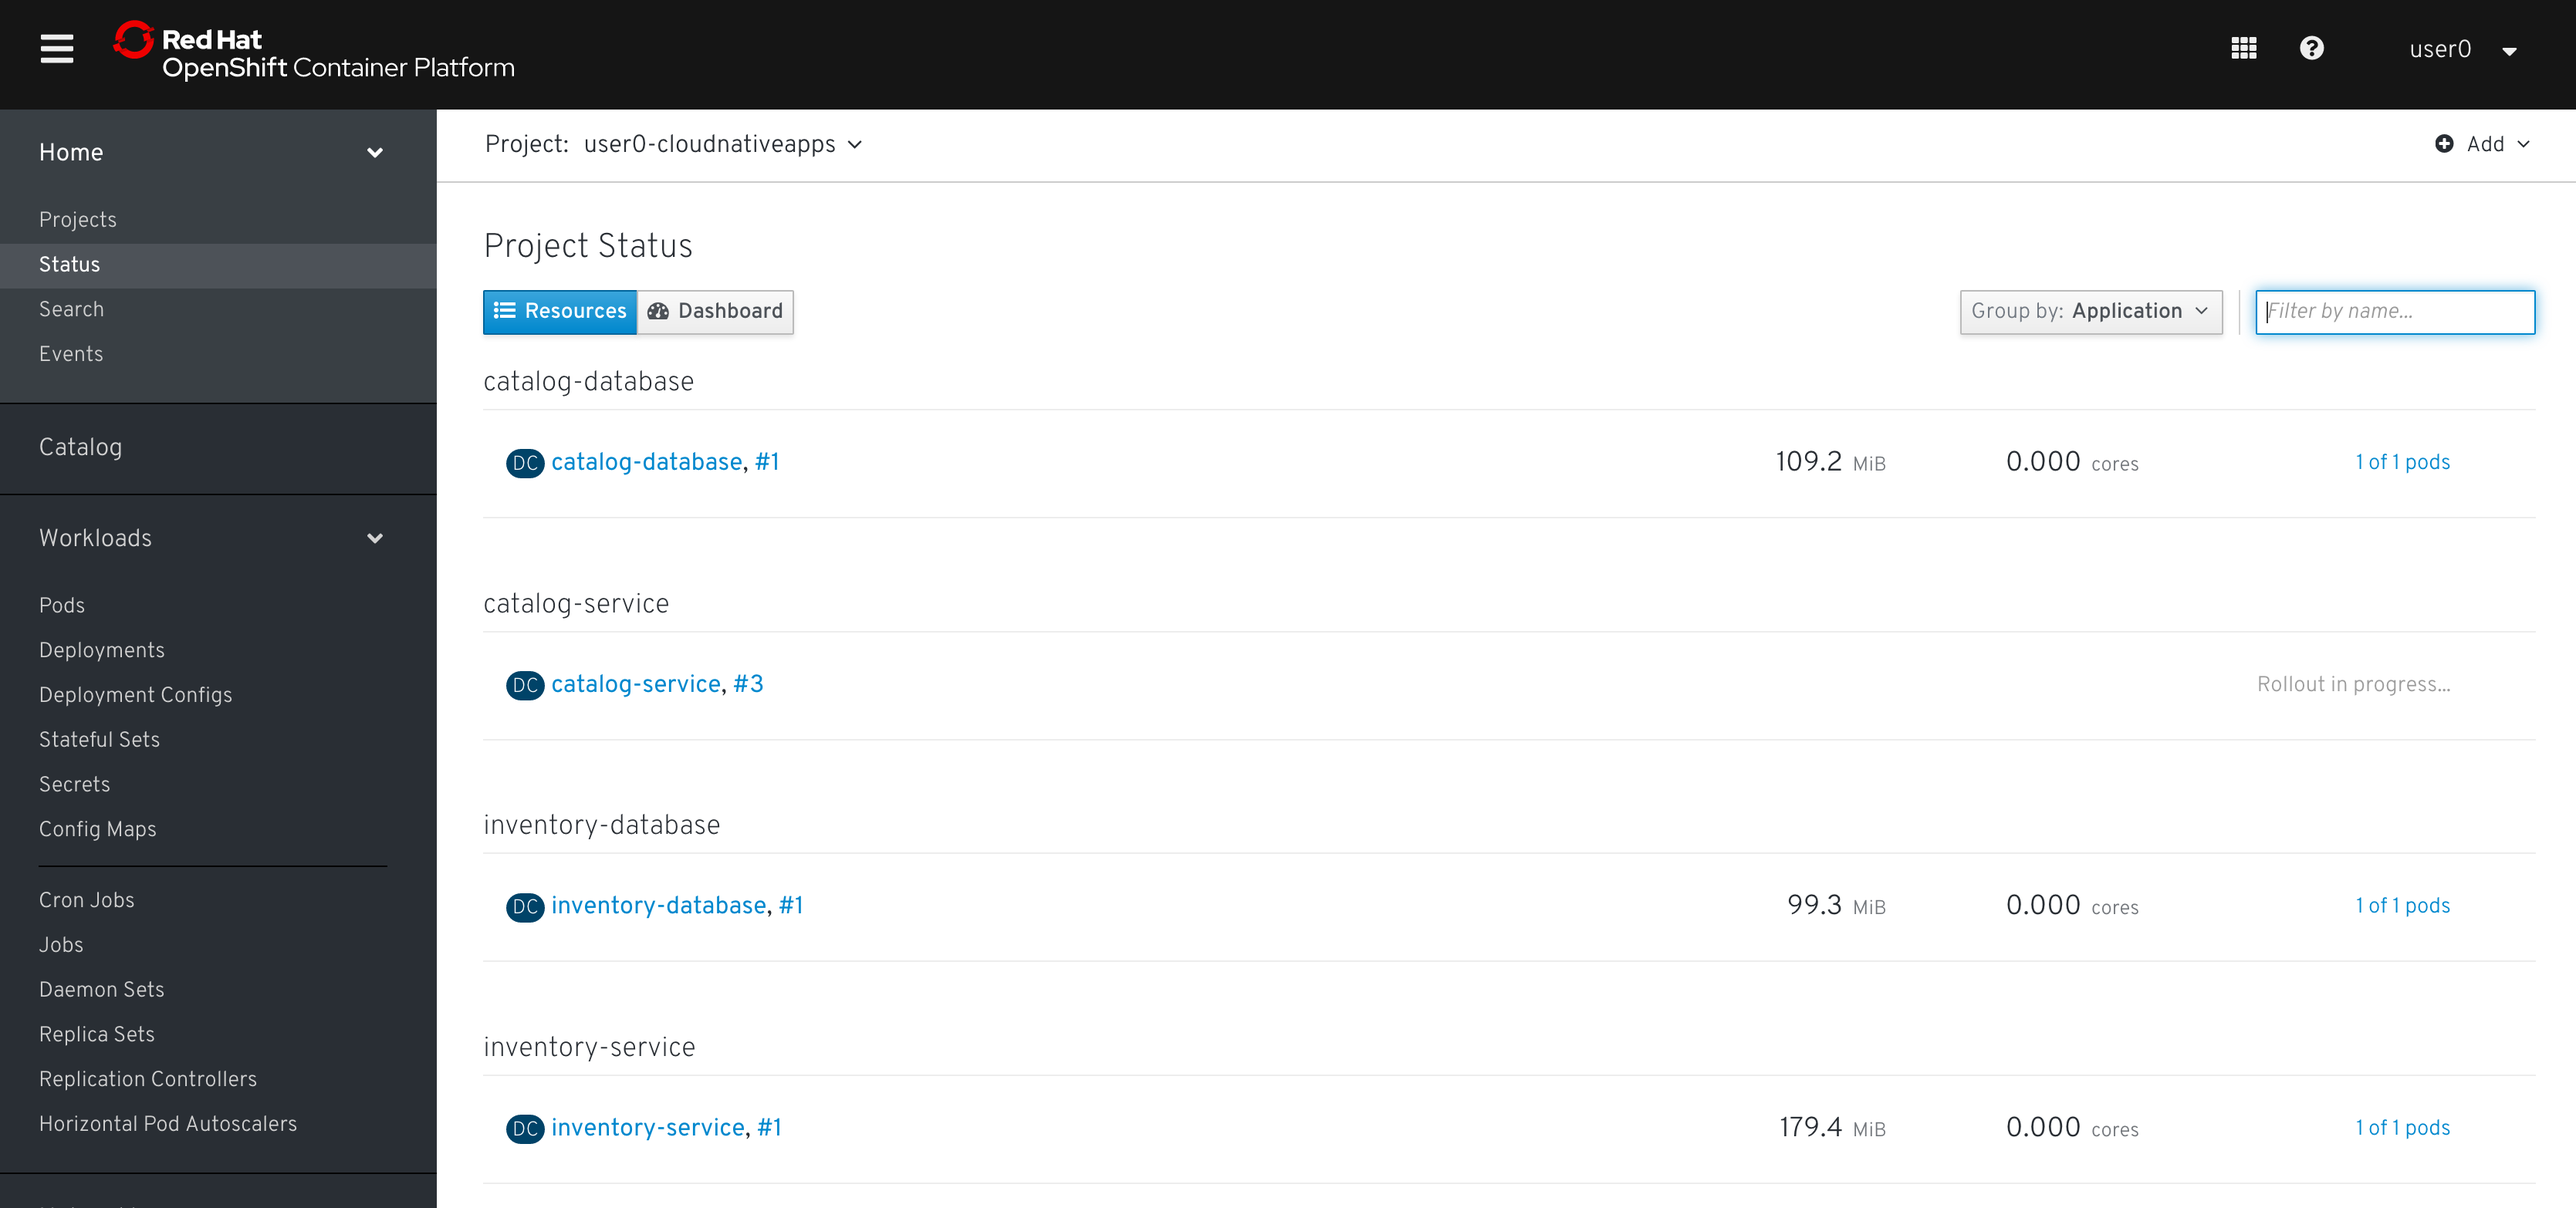
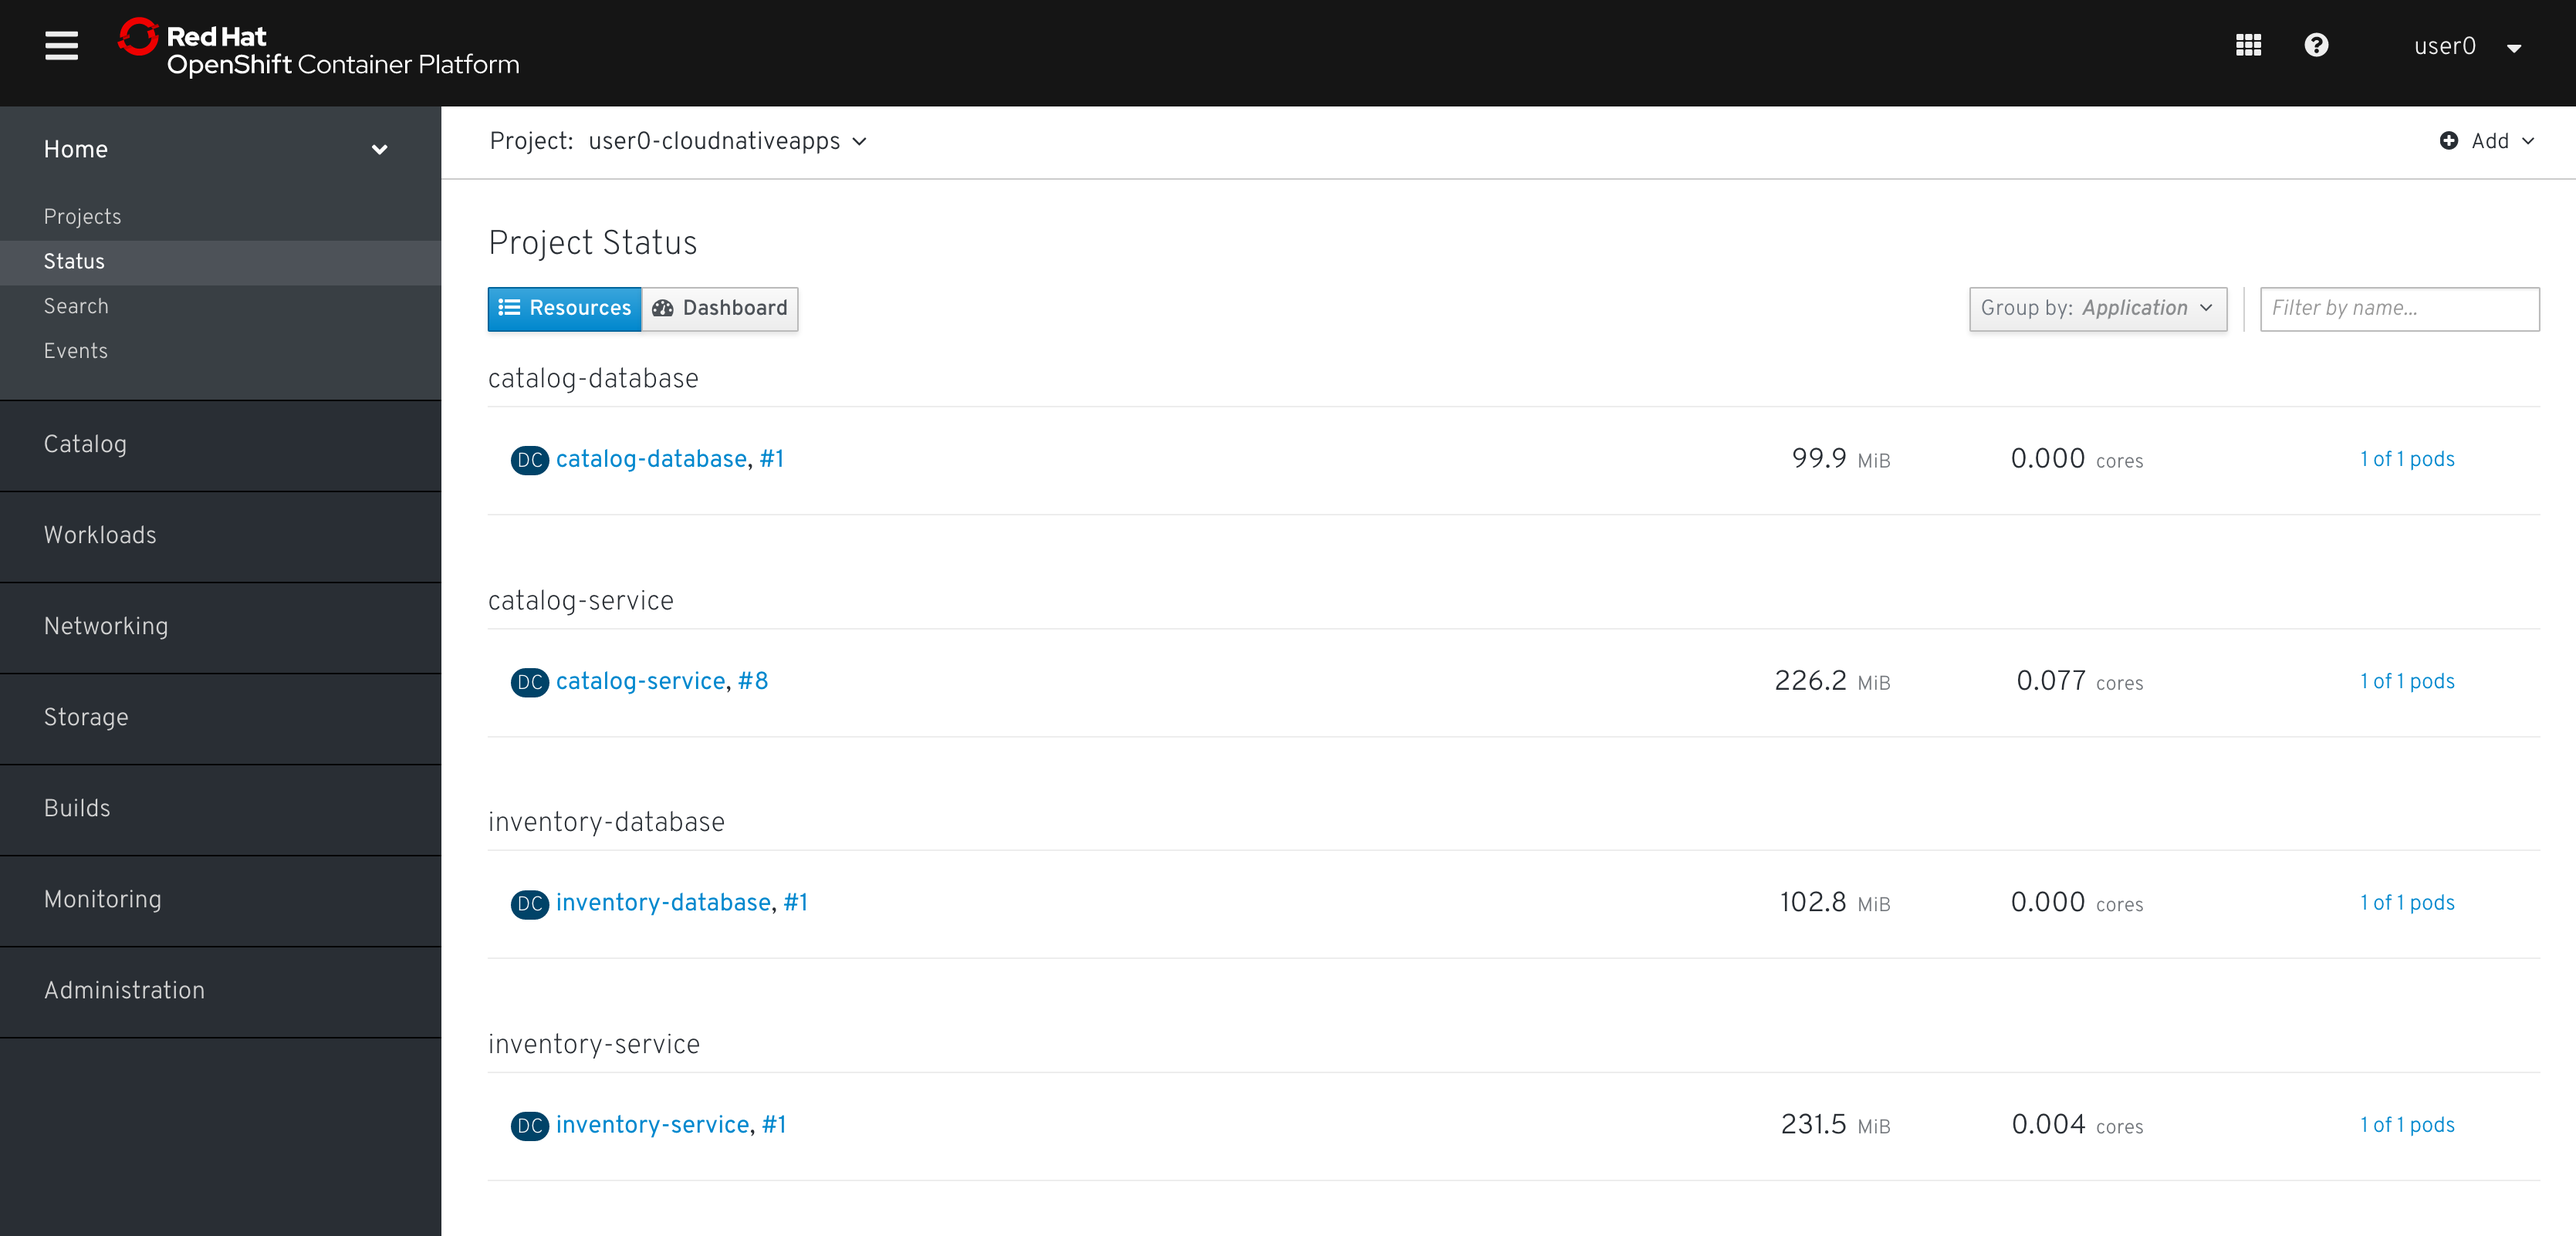
update cart-service

diff --git a/high-performing-cache-services.md b/high-performing-cache-services.md
@@ -314,13 +314,62 @@ You will see the following result:
 ![openshift_login]({% image_path catalog_curl_result.png %})
 
 So now `Catalog` service is deployed to OpenShift. You can also see it in the Project Status in the OpenShift Console 
-with running in 1 pod, along with the Postgres database pod.
+with running 4 pods such as catalog-service, catalog-database, inventory-service, and inventory-database.
 
 ![catalog]({% image_path catalog-project-status.png %})
 
 ####3. Developing and Deploying Shopping Cart Service
 
 ---
+
+`Shopping Cart Service` manages shopping cart for each customer. Lets's go through quickly how cart service works and built on 
+`Quarkus` Java runtimes.  Go to `Project Explorer` in `CodeReady Workspaces` Web IDE and expand `cart-service` directory.
+
+![catalog]({% image_path codeready-workspace-cart-project.png %}){:width="500px"}
+
+Now, let's create Cache Services using `cache-service` of `Red Hat JBoss Data Grid` to quickly set up clusters that give you optimal performance 
+and ease of use with minimal configuration.
+
+`Cache Service`(cache-service) provides an easy-to-use implementation of `Data Grid` for `OpenShift` that is designed to increase application 
+response time through high-performance caching. With cache-service you can create new caches only as copies of the default cache definition.
+
+Run the following `oc` command to create a `cache-service` in OpenShift via CodeReady Workspaces `Terminal`:
+
+`oc new-app cache-service -p APPLICATION_USER=developer -p APPLICATION_PASSWORD=developer -p NUMBER_OF_INSTANCES=3 -p REPLICATION_FACTOR=2`
+
+ * `NUMBER_OF_INSTANCES` sets the number of nodes in the Data Grid for OpenShift cluster. The default is 1.
+
+ * `APPLICATION_USER` creates a user to securely access the cache. There is no default value. You must always create a user.
+ 
+ * `APPLICATION_PASSWORD` specifies a password for the user. If you do not set a password, the service template randomly generates one and stores it as a secret.
+ 
+ * `REPLICATION_FACTOR` specifies the number of copies for each cache entry. The default is 1.
+
+[Red Hat® Data Grid](https://access.redhat.com/documentation/en-us/red_hat_data_grid/7.3/html-single/red_hat_data_grid_for_openshift/index) is an 
+in-memory, distributed, NoSQL datastore solution. Your applications can access, process, and analyze data at in-memory speed to deliver a superior 
+user experience with features and benefits as below:
+
+ * `Act faster` - Quickly access your data through fast, low-latency data processing using memory (RAM) and distributed parallel execution.
+
+ * `Scale quickly` - Achieve linear scalability with data partitioning and distribution across cluster nodes.
+
+ * `Always available` - Gain high availability through data replication across cluster nodes.
+
+ * `Fault tolerance` - Attain fault tolerance and recover from disaster through cross-datacenter georeplication and clustering.
+
+ * `More productivity` - Gain development flexibly and greater productivity with a highly versatile, functionally rich NoSQL data store.
+
+ * `Protect data` - Obtain comprehensive data security with encryption and role-based access.
+
+You can also create a cache service when you go to `Catalog > Developer Catalog` in OpenShift web console and select `data grid service`.
+
+![catalog]({% image_path catalog-cache-service.png %})
+
+Once the cache-service is deployed successfully, it will be showd in `Project Status`.
+
+![catalog]({% image_path catalog-cache-service-status.png %})
+
+
 
 ####4. Developing and Deploying Order Service
 
